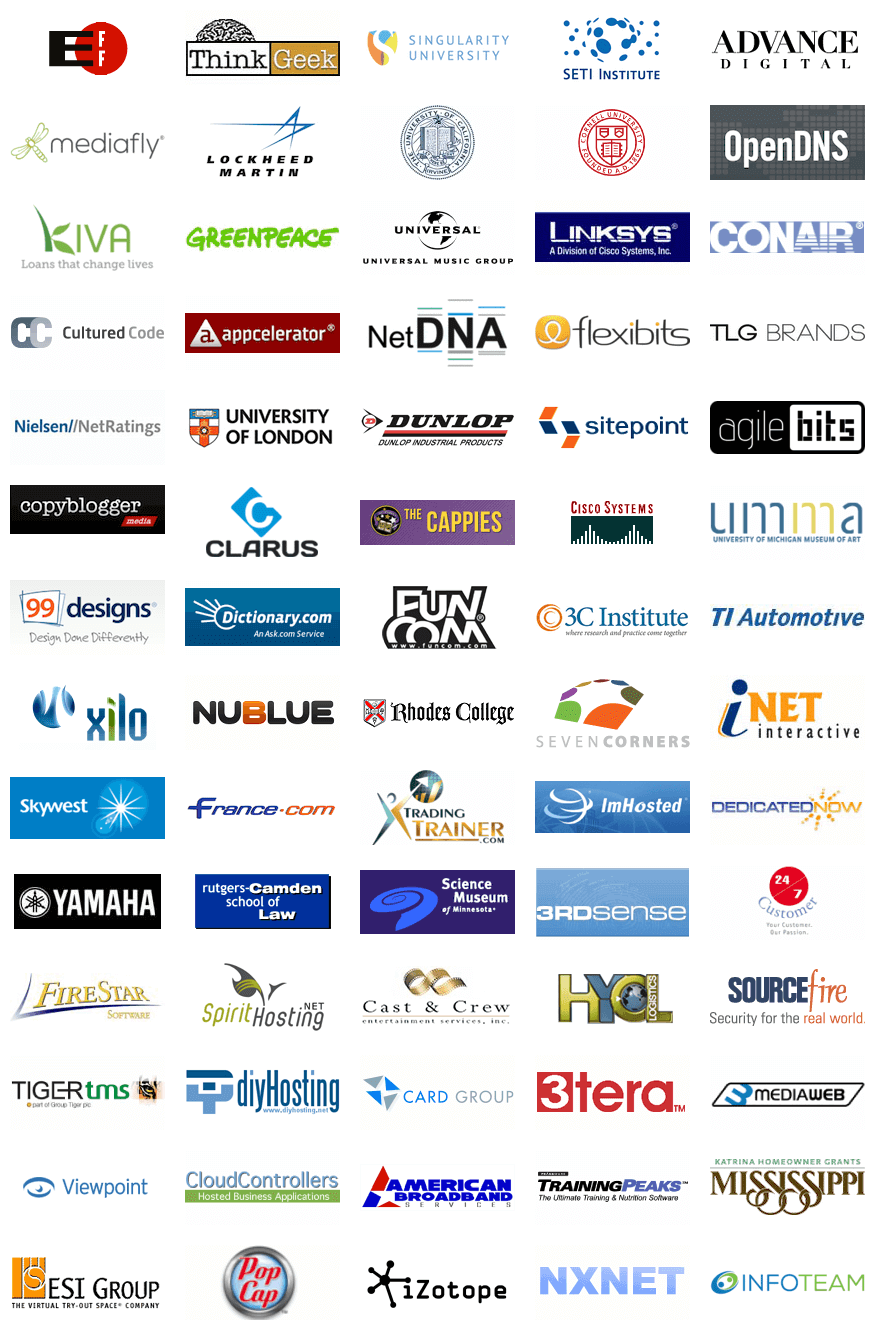
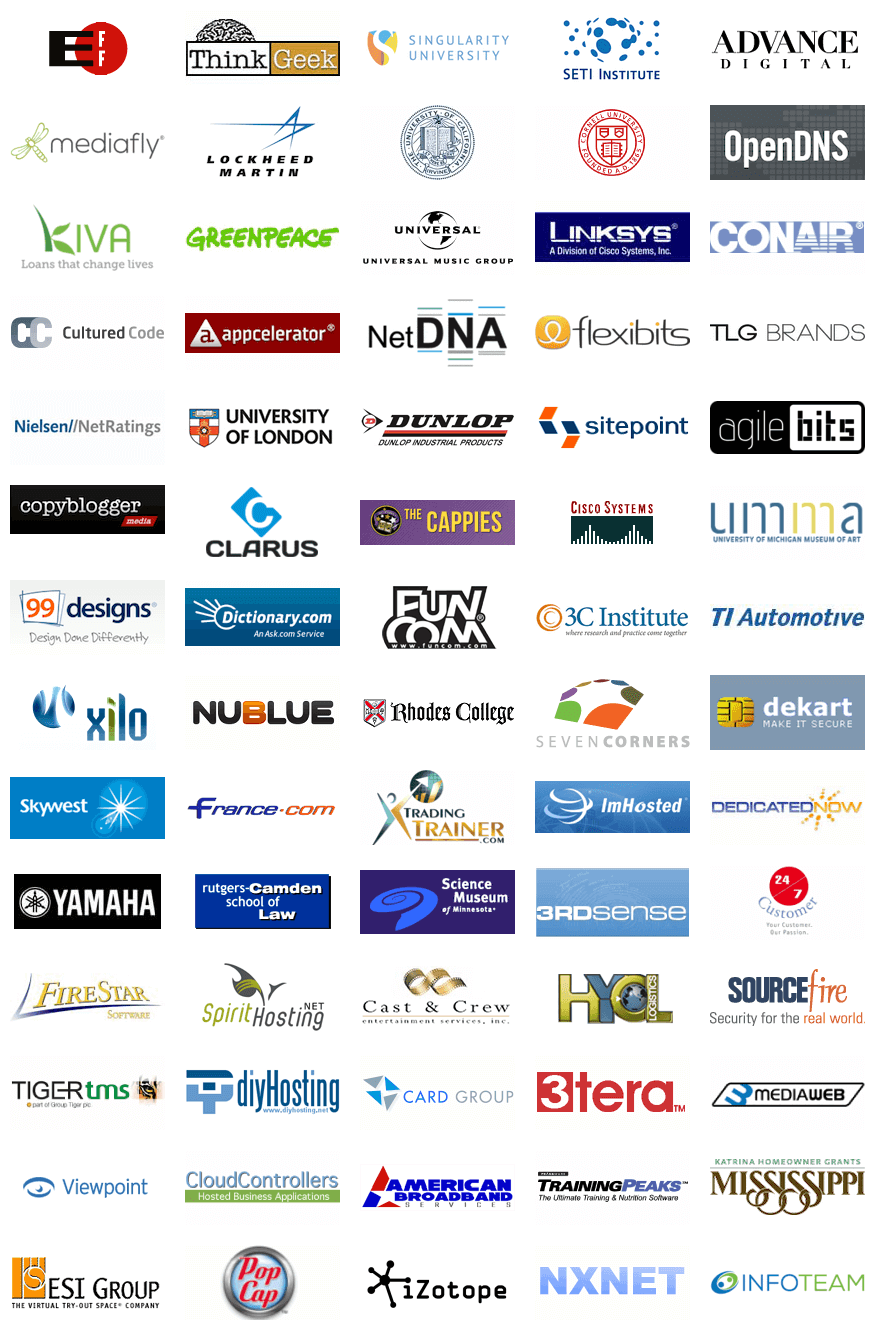
[Clients] Added Alex@Dekart testimonial.

Changed region(s): [[0.8023, 0.4932, 0.9874, 0.5857], [0.432, 0.8015, 0.4629, 0.8323], [0.216, 0.5857, 0.2469, 0.6165]]

diff --git a/_sass/_cerb.scss b/_sass/_cerb.scss
@@ -775,7 +775,7 @@ span.client-xilo-net { background: url(/assets/cerb-clients.png) -10px -675px; }
 span.client-nublue-co-uk { background: url(/assets/cerb-clients.png) -185px -675px; }
 span.client-rhodes-edu { background: url(/assets/cerb-clients.png) -360px -675px; }
 span.client-sevencorners-com { background: url(/assets/cerb-clients.png) -535px -675px; }
-span.client-inetinteractive-com { background: url(/assets/cerb-clients.png) -710px -675px; }
+span.client-dekart-com { background: url(/assets/cerb-clients.png) -710px -675px; }
 span.client-skywest-com-au { background: url(/assets/cerb-clients.png) -10px -770px; }
 span.client-france-com { background: url(/assets/cerb-clients.png) -185px -770px; }
 span.client-tradingtrainer-com { background: url(/assets/cerb-clients.png) -360px -770px; }
